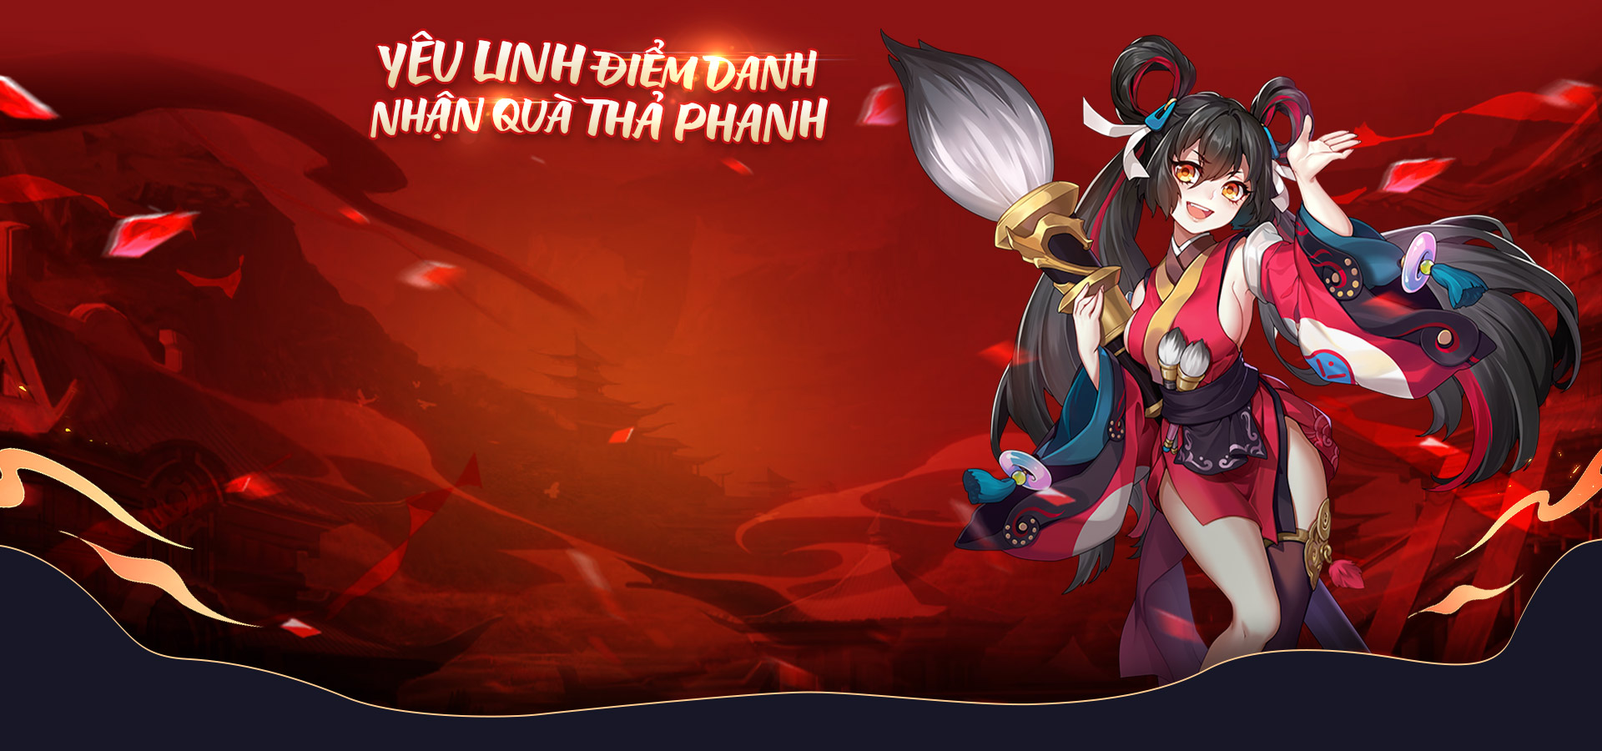
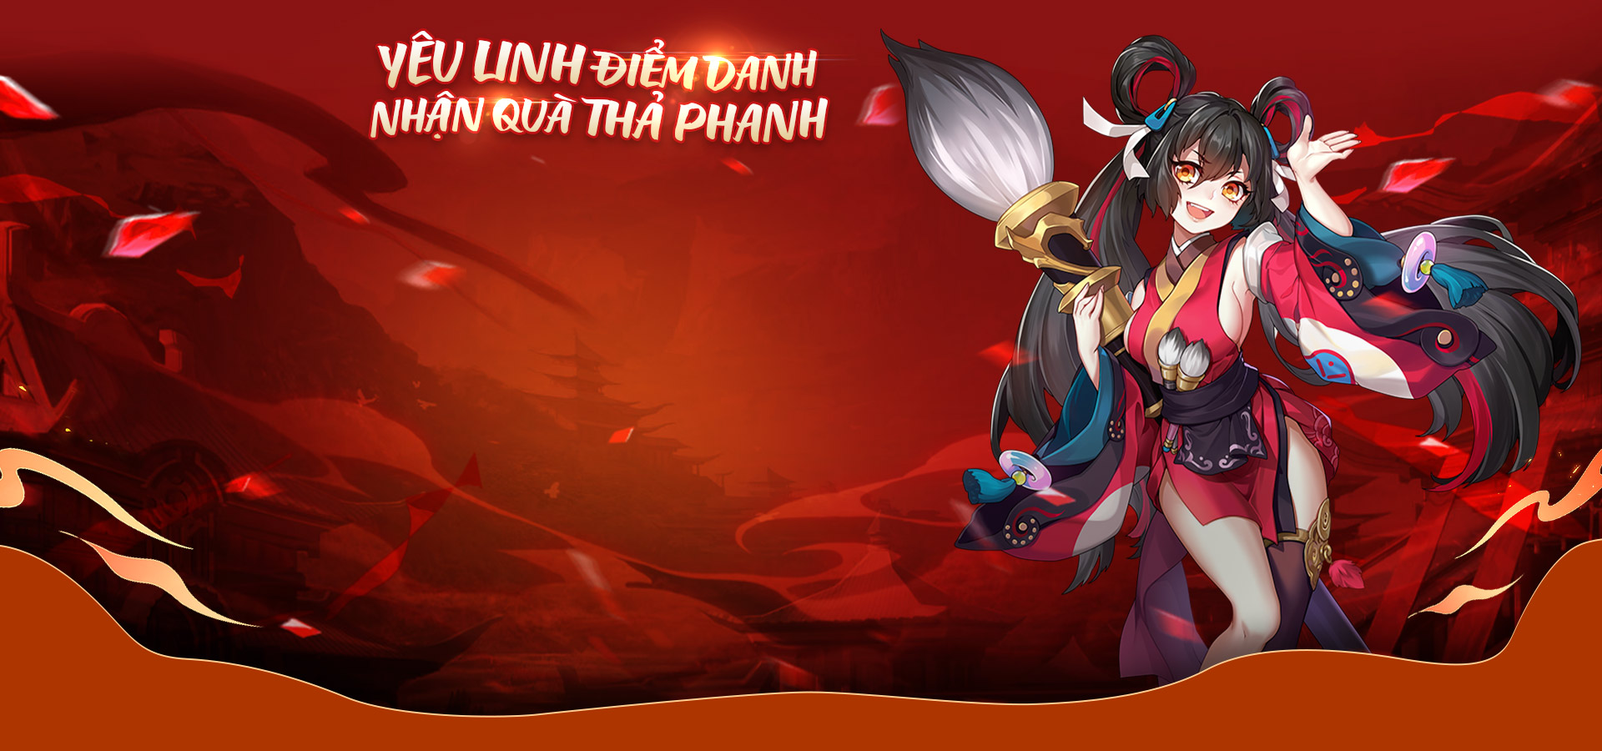
Update Bg block003

Changed region(s): [[0.0, 0.7156, 1.0, 1.0]]

diff --git a/20230410-DaiLe3004/css/wwstyle.min.css b/20230410-DaiLe3004/css/wwstyle.min.css
@@ -1,1 +1,1 @@
-body.fullpagebg{background:var(--w-bg-color) url("../images/bg-sm.jpg") no-repeat center top scroll;background-size:100vw auto}body:not(.fullpagebg) #section-01{background:url("../images/block001/bg-sm.jpg") no-repeat center 0em scroll;background-size:100vw auto}body:not(.fullpagebg) #section-02{background:url("../images/block002/bg-sm.jpg") no-repeat center 0em scroll;background-size:100vw auto}body:not(.fullpagebg) #section-03{background:url("../images/block003/bg-sm.jpg") no-repeat center 0em scroll;background-size:100vw auto}body:not(.fullpagebg) #section-04{background:url("../images/block004/bg-sm.jpg") no-repeat center 0em scroll;background-size:100vw auto}body:not(.fullpagebg) #section-05{background:url("../images/block005/bg-sm.jpg") no-repeat center 0em scroll;background-size:100vw auto}#section-vgp{background-color:#111}@media(min-width: 1024px){body.fullpagebg{background:var(--w-bg-color) url("../images/bg-lg.jpg") no-repeat center top scroll;background-size:100vw auto}body:not(.fullpagebg) #section-01{background-image:url(../images/block001/bg-lg.jpg)}body:not(.fullpagebg) #section-02{background-image:url(../images/block002/bg-lg.jpg)}body:not(.fullpagebg) #section-03{background-image:url(../images/block003/bg-lg.jpg)}body:not(.fullpagebg) #section-04{background-image:url(../images//block004/bg-lg.jpg)}body:not(.fullpagebg) #section-05{background-image:url(../images/block005/bg-lg.jpg)}.wcontainer{width:75%}.layout-section03{grid-template-areas:"wheel slogan" "wheel status" "wheel button"}}form input,form select{color:#414141}.header-sm{background:rgba(0,0,0,0) url("../images/bg-header.png") no-repeat center center;background-size:100% 100%}.block-henuoc{background:rgba(0,0,0,0) url("../images/block-henuoc.png") no-repeat center center;background-size:100% 100%}.block-status{padding:1em 2em;background-color:rgba(0,0,0,.2);border:1px solid var(--w-secondary);border-radius:.5em;display:flex;justify-content:center;align-items:center}.block-status span{color:var(--w-highlight)}.cum-button{border:1px solid var(--w-secondary);border-radius:.5em;overflow:hidden}.cum-button button{padding:.69em 0;background-color:rgba(255,255,255,.69);border-left:1px solid var(--w-secondary)}.cum-button button:first-child{border-left:0px solid var(--w-secondary)}.cum-button button:hover{color:var(--w-secondary);background-color:#fff}.cum-button.dark{border:1px solid var(--w-primary)}.cum-button.dark button{background-color:rgba(0,0,0,.5);border-left:1px solid var(--w-primary);color:#fff}.cum-button.dark button:hover{color:var(--w-highlight);background-color:var(--w-secondary)}#section-menu-nav a{margin:0 .75em;display:block;text-align:center;opacity:.8;transition:opacity .36s ease}#section-menu-nav a:hover{opacity:1}.page-nav a{opacity:.8}.page-nav a:hover{opacity:1}.wbadge{color:#fff;padding:.25em .5em;position:absolute;border-radius:.5em}#section-final{background:rgba(0,0,0,0) url("../images/block-final.jpg") no-repeat center center;background-size:cover}.block-img-store{background:rgba(0,0,0,0) url("../images/store-badge/img-store.png") no-repeat center center;background-size:100% 100%}.block-img-store a{overflow:hidden;display:block;text-indent:-9999px}.search-box{background-color:rgba(255,255,255,.9);border-radius:1em;border:1px solid var(--w-primary)}.block-hoatdong button,.block-hoatdong button>img{transition:all .36s ease}.block-hoatdong button:hover{filter:drop-shadow(0px 0px 0.5em rgba(125, 238, 255, 0.5))}.block-hoatdong button:hover>img{transform:scale(1.05)}.alert{color:red;margin:.5em auto}#page-num{position:fixed;top:50%;left:1em;transform:translateY(-50%)}#page-num ul li a{width:.75em;height:.75em;text-indent:-9999px;overflow:hidden;background-color:#fff;display:block;border-radius:100%;opacity:.5;transition:opacity .36s ease}#page-num a.active{opacity:1}.content-04{background-color:#fff;border:1px dotted var(--w-tertiary);border-radius:2em;padding:3em 2em}.content-04 .h-fit{font-size:1.6rem}.content-04 .h-fit h3{color:var(--w-tertiary);font-size:1.5em;text-transform:uppercase;text-align:center;margin:0em auto 1em auto}.content-04 .swiper-slide{height:calc((100% - 30px)/2) !important}.content-04 .item{background:rgba(0,0,0,0) url("../images/item/bg-item.png") no-repeat center center;background-size:100% 100%;display:grid;padding:1em;border-radius:1em;text-align:center;gap:1em;cursor:pointer}.content-04 .item .name{line-height:1.25;color:var(--w-primary);text-transform:uppercase;font-size:.8em}.content-04 .item>button{background-color:var(--w-primary);padding:.35em .75em;color:#fff;border-radius:.5em}.doiqua-pagination,.gal-pagination{opacity:1;display:flex;justify-content:center;align-items:center;gap:0em}.doiqua-pagination span,.gal-pagination span{display:flex;justify-content:center;align-items:center;width:1.5em;height:1.5em;opacity:1;color:#fff;background-color:var(--w-tertiary);opacity:.25;transition:all .36s ease}.doiqua-pagination span.swiper-pagination-bullet-active,.gal-pagination span.swiper-pagination-bullet-active{opacity:1}@media(min-width: 1024px){.block-003{background:rgba(0,0,0,0) url("../images/bg-block003.png") no-repeat center bottom;background-size:100% 100%}.content-04{background-color:rgba(0,0,0,0);border:none;border-radius:2em;padding:2em}.content-04 .h-fit{font-size:1em}.content-04 .item{gap:.5em}.doiqua-pagination,.gal-pagination{font-size:1em}}.disabled{filter:grayscale(0.9);pointer-events:none}.offcanvas{position:absolute;top:0;left:0;width:100%;height:100%;z-index:10;background-color:var(--w-backdrop-color);opacity:1;transition:opacity .36s ease}.offcanvas-content{background-color:var(--w-offcanvas);opacity:1;color:#fff;transition:all .36s ease;overflow:hidden;height:100vh;filter:drop-shadow(0em 0em 0.5em rgba(0, 0, 0, 0.5))}.offcanvas-content>.icon{padding:1em;background-color:var(--w-primary)}.offcanvas-content .link a{display:flex;justify-content:center;align-items:center;border-bottom:var(--w-offcanvas-border);font-size:1em;line-height:4}@media(min-width: 1024px){.offcanvas-content .link a{font-size:1em}}.offcanvas:not(.show){opacity:0;z-index:-1}.offcanvas:not(.show) .offcanvas-content{opacity:0;margin-left:-50%}.btn-login-vgp{background-color:var(--w-primary);border-radius:100em}.btn-login-vgp span.content{width:0;margin:0;transition:width .36s ease;overflow:hidden;white-space:nowrap}.btn-login-vgp:hover span.content{width:-moz-fit-content;width:fit-content;margin:0 .5em}.ztimeline{background:rgba(0,0,0,0) url("../images/block002/timeline-bar.png") no-repeat center center;background-size:100% 100%;position:relative}.ztimeline .timeline-bar{background:rgba(0,0,0,0) url("../images/block002/timeline-bar-active.png") no-repeat 0% center;background-size:auto 100%;height:100%}.ztimeline .timeline-button{position:absolute;top:0;left:0;width:100%;height:100%}.ztimeline .timeline-button>button{width:100%;height:100%;opacity:0}.timeline-wrap{width:100%;height:100%;position:absolute;top:0;left:0}.ztimeline .timeline-gifts{background:rgba(0,0,0,0) url("../images/block002/timeline-item-active.png") no-repeat 0% center;background-size:auto 100%;height:100%;position:absolute;z-index:1;top:0;left:0}.btn-close-modal{background:rgba(0,0,0,0) url("../images/btn-close-modal.png") no-repeat center center;background-size:100% 100%;position:absolute;top:0%;left:50%;transform:translateY(-50%) translateX(-50%);transition:all .36s ease;width:8em;aspect-ratio:184/50;border:none;border-radius:1em;transition:all .36s ease}.btn-close-modal:hover{filter:brightness(1.2)}.wmodal-dialog{background:rgba(0,0,0,0) url("../images/bg-popup.png") no-repeat center center;background-size:100% 100%;transform:scale(1);transition:transform .5s ease;width:80%;padding:0;color:#414141}.wmodal-dialog>.content{padding-bottom:3em}.wmodal-dialog .title{text-align:center;text-transform:uppercase;height:6em;line-height:6em}.wmodal-dialog .content-scroll{overflow:auto;max-height:42em;padding:0 3em 4em 3em}.btn-close-modal:hover{filter:brightness(1.5)}.wmodal{position:fixed;width:100%;height:100%;background-color:var(--w-backdrop-color);top:0;right:0;z-index:9999;display:flex;justify-content:center;align-items:center;transition:opacity .36s ease;overflow:hidden;color:#414141;font-size:1em}.wmodal-content{background-color:rgba(255,255,255,.95);border:solid 1px var(--w-primary);filter:drop-shadow(0 0 1em rgba(0, 0, 0, 0.15));border-radius:2em;transform:scale(1);transition:transform .5s ease;width:90%;padding:2em;padding-top:3em}.wmodal-content .title{text-align:center;padding-bottom:1em;text-transform:uppercase;margin-bottom:.5em;letter-spacing:.5em;border-bottom:1px var(--w-primary) dotted}.wmodal-content.youtube{padding:0em;background:rgba(0,0,0,0);border:none}.wmodal:not(.show){opacity:0;z-index:-1}.wmodal:not(.show) .wmodal-content,.wmodal:not(.show) .wmodal-dialog{transform:scale(0.8)}.wmodal>.wmodal-content>.wrap{background-color:var(--w-popup-color);border-radius:1em;overflow:hidden}.wmodal-dialog .title span,.wmodal-content .title span{font-size:1.5em;color:var(--w-primary)}.content-scroll{max-height:69vh;overflow:auto}@media(min-width: 1024px){.btn-close-modal{width:8em}.wmodal-content{max-width:30em;padding-bottom:2em}.wmodal-content.youtube{max-width:50em}.wmodal-dialog{max-width:32em;padding-bottom:2em}.wmodal-dialog .title{height:6em;line-height:6em}.wmodal-content .title span,.wmodal-dialog .title span{font-size:1.75em}.wmodal-dialog .content-scroll{font-size:1rem;height:33em;padding:0 3em 4em 3em}.wmodal-content .h-fit,.wmodal-dialog .content-scroll .h-fit{font-size:1rem}}.bgvideo{width:100%;position:absolute;top:0;left:0;z-index:1}.bgvideo video{width:100%}.animate__loop{animation-duration:2s;animation-timing-function:ease;animation-iteration-count:infinite}.animate__glow{animation-name:glow}@keyframes glow{0%{filter:brightness(1)}50%{filter:brightness(1.3)}100%{filter:brightness(1)}}.animate__bling{animation-name:bling}@keyframes bling{0%{filter:brightness(1);transform:scale(1)}50%{filter:brightness(1.3);transform:scale(1.05)}100%{filter:brightness(1);transform:scale(1)}}.animate__blingbling{animation-name:blingbling}@keyframes blingbling{0%{filter:brightness(1);transform:translateY(0)}50%{filter:brightness(1.3);transform:translateY(2%)}100%{filter:brightness(1);transform:translateY(0)}}.animate__laploe{animation-name:laploe}@keyframes laploe{0%{filter:brightness(1);opacity:1;transform:scale(1)}50%{filter:brightness(1.2);opacity:.5;transform:scale(0.95) rotate(3deg)}100%{filter:brightness(1);opacity:1;transform:scale(1)}}.animate__breath{animation-name:breath;transform-origin:center center}@keyframes breath{0%{filter:brightness(1);transform:scale(1)}50%{filter:brightness(1.2);transform:scale(1.01)}100%{filter:brightness(1);transform:scale(1)}}.animte__updown{animation-name:updown}@keyframes updown{0%{transform:translateY(0)}50%{transform:translateY(5%)}100%{transform:translateY(0)}}.e-btn-click{transition:all .36s ease}.e-btn-click:active{transform:scale(0.98)}.e-btn-hover-glow{transition:all .36s ease}.e-btn-hover-glow:hover,.w-image-button:hover{transform:scale(1.01);filter:brightness(1.1) drop-shadow(0 0 2em rgba(255, 255, 255, 0.15))}.tabs-button button:not(.active){filter:brightness(0.69) grayscale(0.1);transition:all .36s ease}.tabs-content .content:not(.active){display:none}#scroll-truyuc::-webkit-scrollbar{display:none}#scroll-truyuc{cursor:grab;-ms-overflow-style:none;scrollbar-width:none}.scroll{background:rgba(0,0,0,0) url("../images/scroll/scroll.png") no-repeat center center;background-size:100% 100%}.button-scroll button{font-size:1.69em;line-height:3;background-color:rgba(0,0,0,.8);border-radius:.25em;border:solid 1px var(--w-secondary)}.pic{width:49.33em;position:relative}.pic-01{background:rgba(0,0,0,0) url("../images/scroll/active/img-01.png") no-repeat center center;background-size:100% 100%}.pic-02{background:rgba(0,0,0,0) url("../images/scroll/active/img-02.png") no-repeat center center;background-size:100% 100%}.pic-03{background:rgba(0,0,0,0) url("../images/scroll/active/img-03.png") no-repeat center center;background-size:100% 100%}.btn-nhancode{position:absolute;top:80%;left:50%;transform:translate(-50%, -50%);width:18em;z-index:0}.mask{position:absolute;top:0;z-index:1;transition:all .25s ease}.mask.hide{opacity:0;display:none}.mask-01{width:100%;height:100%;-webkit-mask:url("../images/scroll/mask/01.png") no-repeat;mask:url("../images/scroll/mask/01.png") no-repeat;-webkit-mask-size:100% 100%;mask-size:100% 100%}.mask-02{width:100%;height:100%;-webkit-mask:url("../images/scroll/mask/02.png") no-repeat;mask:url("../images/scroll/mask/02.png") no-repeat;-webkit-mask-size:100% 100%;mask-size:100% 100%}.mask-03{width:100%;height:100%;-webkit-mask:url("../images/scroll/mask/03.png") no-repeat;mask:url("../images/scroll/mask/03.png") no-repeat;-webkit-mask-size:100% 100%;mask-size:100% 100%}.mask-04{width:100%;height:100%;-webkit-mask:url("../images/scroll/mask/04.png") no-repeat;mask:url("../images/scroll/mask/04.png") no-repeat;-webkit-mask-size:100% 100%;mask-size:100% 100%}.mask-05{width:100%;height:100%;-webkit-mask:url("../images/scroll/mask/05.png") no-repeat;mask:url("../images/scroll/mask/05.png") no-repeat;-webkit-mask-size:100% 100%;mask-size:100% 100%}.mask-06{width:100%;height:100%;-webkit-mask:url("../images/scroll/mask/09.png") no-repeat;mask:url("../images/scroll/mask/09.png") no-repeat;-webkit-mask-size:100% 100%;mask-size:100% 100%}.mask-07{width:100%;height:100%;-webkit-mask:url("../images/scroll/mask/08.png") no-repeat;mask:url("../images/scroll/mask/08.png") no-repeat;-webkit-mask-size:100% 100%;mask-size:100% 100%}.mask-08{width:100%;height:100%;-webkit-mask:url("../images/scroll/mask/07.png") no-repeat;mask:url("../images/scroll/mask/07.png") no-repeat;-webkit-mask-size:100% 100%;mask-size:100% 100%}.mask-09{width:100%;height:100%;-webkit-mask:url("../images/scroll/mask/06.png") no-repeat;mask:url("../images/scroll/mask/06.png") no-repeat;-webkit-mask-size:100% 100%;mask-size:100% 100%}.checkin>.w-image-button{background:rgba(0,0,0,0) url("../images/block003/active/gift-01.png") no-repeat center center;background-size:100% auto}.checkin .w-image-button:nth-child(1){background-image:url("../images/block003/active/gift-01.png")}.checkin .w-image-button:nth-child(2){background-image:url("../images/block003/active/gift-02.png")}.checkin .w-image-button:nth-child(3){background-image:url("../images/block003/active/gift-03.png")}.checkin .w-image-button:nth-child(4){background-image:url("../images/block003/active/gift-04.png")}.checkin .w-image-button:nth-child(5){background-image:url("../images/block003/active/gift-05.png")}.checkin .active>img{opacity:0}.block-float{position:fixed;transition:transform .36s ease,height .36s ease;z-index:11}.block-float .link a{display:flex;justify-content:center;align-items:center;text-transform:uppercase}.block-float:not(.minimize){background:rgba(0,0,0,0) url("../images/float/float-bg.png") no-repeat center center;background-size:100% 100%;top:50%;right:0;transform:translateY(-50%)}.block-float:not(.minimize) .block-mini{display:none}.block-float.minimize{padding:0;bottom:0;right:0;transform:translateY(0);aspect-ratio:auto}.block-float.minimize>*{display:none}.block-float.minimize .block-mini{display:block}.text-share{background:rgba(0,0,0,0) url("../images/text-share.png") no-repeat center center;background-size:100% 100%;aspect-ratio:261/62;text-align:center;line-height:1;display:flex;align-items:center;justify-content:center}.block-gal .swiper-container{width:100%;height:100%;margin-left:auto;margin-right:auto}.block-gal .swiper-slide{height:calc((100% - 30px)/2) !important;display:flex;justify-content:center;align-items:center}.block-gal .item{background:rgba(0,0,0,0) url("../images/gal/bg-item.png") no-repeat center center;background-size:100% 100%;padding:6.9%;position:relative;cursor:pointer;transition:all .36s ease}.block-gal .item>.info{position:absolute;top:0;left:0;width:100%;height:100%;background-color:rgba(0,0,0,.69);color:#fff;text-align:center;display:flex;flex-direction:column;justify-content:center;align-items:center;opacity:0;transition:opacity .25s ease-in}.block-gal .item>.info span{color:#ccc}.block-gal .item:hover{filter:brightness(1.1)}.block-gal .item:hover>.info{opacity:1}.block-gal .item .w-image-block{border:1px var(--w-secondary) solid;border-radius:1em}.block-gal .item button{color:#fff;background-color:var(--w-secondary);padding:.15em .75em;border-radius:.75em}.btn-gal-tangbanh button{height:2em;width:2em;background-color:var(--w-secondary);color:#fff}.btn-gal-tangbanh input{height:2em;width:3em;text-align:center;padding:0 1em}.block-top10{background:rgba(0,0,0,0) url("../images/gal/bg-top10.png") no-repeat center center;background-size:100% 100%;padding:16.5em 3em 0em 3em}.block-top10 .border{border:none;border-bottom:1px var(--w-secondary) dotted}.block-top10 td span{width:1.5em;height:1.5em;line-height:1.5em;background-color:#111;color:#fff;border-radius:.25em;display:block}.block-top10 tr:nth-child(1) td span,.block-top10 tr:nth-child(2) td span,.block-top10 tr:nth-child(3) td span{background-color:var(--w-secondary)}.btn-dapngay{top:50%;left:50%;transform:translate(-50%, -50%);cursor:pointer}.btn-dapngay .tag-luotdap{background-color:rgba(0,0,0,.69);padding:.5em;border-radius:1em;border:1px solid var(--w-primary);position:absolute;bottom:5%;left:50%;transform:translateX(-50%);z-index:1}.block-items{background-color:#ccc;border:#ccc solid 1px}.block-items .item{background-color:#fff;padding:1.75em 1em}.block-items .item button{padding:.5em .75em;background-color:var(--w-primary);color:#fff;border-radius:1em}.char-slide{position:relative}.char-slide>a{width:11em;margin:-1em auto 0 auto}@media(min-width: 1024px){.char-slide>a{width:20em;margin:0 auto;position:absolute;bottom:3%;left:50%;margin-left:-10em}}.char-pagination{--swiper-pagination-bullet-inactive-opacity: 0.5}.char-pagination span{text-indent:-9999px;overflow:hidden;background:rgba(0,0,0,0) no-repeat center center;background-size:100% 100%;width:4em;height:4em}.char-pagination span:nth-child(1){background-image:url("../images/character/icon-class-01.png")}.char-pagination span:nth-child(2){background-image:url("../images/character/icon-class-02.png")}.char-pagination span:nth-child(3){background-image:url("../images/character/icon-class-03.png")}.char-pagination span:nth-child(4){background-image:url("../images/character/icon-class-04.png")}.char-pagination span:nth-child(5){background-image:url("../images/character/icon-class-05.png")}.block-submit .swiper-slide:not(.swiper-slide-active){background-color:#fff}.block-submit .swiper-slide:not(.swiper-slide-active)>img{opacity:.3;transition:all .36s ease}.block-submit .swiper-button-next,.block-submit .swiper-button-prev{width:2em}.block-submit .swiper-button-next::after,.block-submit .swiper-button-prev::after{display:none}.block-submit .swiper-button-next{right:.5em}.block-submit .swiper-button-prev{left:.5em}@media(min-width: 1024px){.block-submit .swiper-button-next,.block-submit .swiper-button-prev{width:3em}.block-submit .swiper-button-next{right:5em}.block-submit .swiper-button-prev{left:5em}}.ranking-content{color:var(--w-primary);line-height:2.65;background-color:#fff;border-radius:1em;padding:1em 2em;overflow:auto}.ranking-content thead{border-bottom:#ccc 1px solid}.quatop{line-height:1.1}.quatop>li{display:grid;grid-template-columns:5em auto;gap:1em;overflow:hidden;border-top:1px solid rgba(66,152,146,.3);padding:1em 0}.quatop>li>span{font-size:.9em;display:flex;align-items:center}.quatop>li .w-image-block{display:flex;align-items:center}@media(min-width: 1024px){.ranking-content{background-color:rgba(0,0,0,0);height:auto;padding:2em 8em;line-height:2.5}.ranking-content>.content{display:grid;grid-template-columns:50% 50%;gap:1em}.ranking-content .quatop{width:95%;border:1px solid rgba(66,152,146,.3);padding:0em 1.5em;aspect-ratio:1/.9;display:grid;grid-template-rows:20% 20% 20% 20% 20%}.ranking-content .quatop li:nth-child(1){border:none}}.block-quabaovat{background:rgba(0,0,0,0) url("../images/block005/bg-quabaovat.png") no-repeat center center;background-size:100% 100%;aspect-ratio:350/600;padding:5em 1.5em 0 1.5em}.block-lichsunhan{background:rgba(0,0,0,0) url("../images/block005/bg-lichsunhan.png") no-repeat center center;background-size:100% 100%;padding:5em 1.5em 0 1.5em}.wwheel .w-image-block,.wwheel .w-image-button{position:absolute;top:50%;left:50%;transform:translate(-50%, -50%)}.wwheel{background:rgba(0,0,0,0) url("../images/block005/wheelbg.png") center center scroll;background-size:100% 100%;aspect-ratio:1/1;position:relative;cursor:pointer}.wwheel .num{position:absolute;background-color:#fff;padding:.25em .5em;border-radius:1em;font-weight:bold;transform:translateX(-50%);left:50%}.wheel{aspect-ratio:1/1;transform-origin:center center}.wheel>img{width:100%;height:auto;display:block}.block-gift{background-color:#ffebbc !important;padding-bottom:5em}.item{background:rgba(0,0,0,0) url(../images/block-gift/bg-item.png) no-repeat center center scroll;background-size:100% 100%;aspect-ratio:300/500;display:flex;flex-direction:column;justify-content:center;align-items:center;padding:1.5em;text-align:center;gap:.5em}.item h1{font-size:1.1em;line-height:1}.item h3{color:var(--w-primary)}.item button{width:90%;margin:0 auto}.wrapp{position:relative;transition:height ease-in .36s}.wrapp button.wrappseemoah{font-size:1.1em;position:absolute;bottom:0;left:50%;background-color:var(--w-primary);padding:.5em 1em;color:#fff;border-radius:1em;transform:translateX(-50%);display:none}.wrapp.active .content{-webkit-mask-image:linear-gradient(rgb(0, 0, 0) 69%, transparent);mask-image:linear-gradient(rgb(0, 0, 0) 69%, transparent)}.wrapp.active button.wrappseemoah{display:block}.splitter{background:rgba(0,0,0,0) url(../images/splitter.png) repeat-x;background-size:auto 100%;width:100vw;position:absolute;height:1em;z-index:3;transform:translateY(-50%)}.cum-btn{background:rgba(0,0,0,0) url(../images/block003/bg-cumbtn.png) no-repeat center top/100% auto}.info{color:#fff;background-color:rgba(107,111,193,.85);border-radius:1em}.btn-atk-small{width:16em;position:absolute;top:50%;left:50%;margin-top:-8em;margin-left:-8em;transform:scale(0.1);opacity:0;transition:all .36s ease;aspect-ratio:1/1;z-index:0;background:url("../images/block003/bg-btn-atk-small.png") no-repeat center center;background-size:100% 100%;filter:drop-shadow(0em 0em 4em rgba(0, 0, 0, 0.5))}.btn-atk-small.show{transform:scale(1);opacity:1;z-index:1}@media(min-width: 1024px){.block-boss{grid-template-areas:"cumbtn boss btnatk"}.block-boss .boss{grid-area:boss}.block-boss .btn-atk{grid-area:btnatk}.block-boss .cum-btn{grid-area:cumbtn}.btn-atk-small{width:20em;margin-top:-10em;margin-left:-10em}}.w-btn{padding:.5em 1em;border:1px var(--w-secondary) solid;border-radius:1em}/*# sourceMappingURL=wwstyle.min.css.map */
+body.fullpagebg{background:var(--w-bg-color) url("../images/bg-sm.jpg") no-repeat center top scroll;background-size:100vw auto}body:not(.fullpagebg) #section-01{background:url("../images/block001/bg-sm.jpg") no-repeat center 0em scroll;background-size:100vw auto}body:not(.fullpagebg) #section-02{background:url("../images/block002/bg-sm.jpg") no-repeat center 0em scroll;background-size:100vw auto}body:not(.fullpagebg) #section-03{background:url("../images/block003/bg-sm.jpg") no-repeat center 0em scroll;background-size:100vw auto}body:not(.fullpagebg) #section-04{background:url("../images/block004/bg-sm.jpg") no-repeat center 0em scroll;background-size:100vw auto}body:not(.fullpagebg) #section-05{background:url("../images/block005/bg-sm.jpg") no-repeat center 0em scroll;background-size:100vw auto}#section-vgp{background-color:#111}@media(min-width: 1024px){body.fullpagebg{background:var(--w-bg-color) url("../images/bg-lg.jpg") no-repeat center top scroll;background-size:100vw auto}body:not(.fullpagebg) #section-01{background-image:url(../images/block001/bg-lg.jpg)}body:not(.fullpagebg) #section-02{background-image:url(../images/block002/bg-lg.jpg)}body:not(.fullpagebg) #section-03{background-image:url(../images/block003/bg-lg.jpg)}body:not(.fullpagebg) #section-04{background-image:url(../images//block004/bg-lg.jpg)}body:not(.fullpagebg) #section-05{background-image:url(../images/block005/bg-lg.jpg)}.wcontainer{width:75%}.layout-section03{grid-template-areas:"wheel slogan" "wheel status" "wheel button"}}form input,form select{color:#414141}.header-sm{background:rgba(0,0,0,0) url("../images/bg-header.png") no-repeat center center;background-size:100% 100%}.block-henuoc{background:rgba(0,0,0,0) url("../images/block-henuoc.png") no-repeat center center;background-size:100% 100%}.block-status{padding:1em 2em;background-color:rgba(0,0,0,.2);border:1px solid var(--w-secondary);border-radius:.5em;display:flex;justify-content:center;align-items:center}.block-status span{color:var(--w-highlight)}.cum-button{border:1px solid var(--w-secondary);border-radius:.5em;overflow:hidden}.cum-button button{padding:.69em 0;background-color:rgba(255,255,255,.69);border-left:1px solid var(--w-secondary)}.cum-button button:first-child{border-left:0px solid var(--w-secondary)}.cum-button button:hover{color:var(--w-secondary);background-color:#fff}.cum-button.dark{border:1px solid var(--w-primary)}.cum-button.dark button{background-color:rgba(0,0,0,.5);border-left:1px solid var(--w-primary);color:#fff}.cum-button.dark button:hover{color:var(--w-highlight);background-color:var(--w-secondary)}#section-menu-nav a{margin:0 .75em;display:block;text-align:center;opacity:.8;transition:opacity .36s ease}#section-menu-nav a:hover{opacity:1}.page-nav a{opacity:.8}.page-nav a:hover{opacity:1}.wbadge{color:#fff;padding:.25em .5em;position:absolute;border-radius:.5em}#section-final{background:rgba(0,0,0,0) url("../images/block-final.jpg") no-repeat center center;background-size:cover}.block-img-store{background:rgba(0,0,0,0) url("../images/store-badge/img-store.png") no-repeat center center;background-size:100% 100%}.block-img-store a{overflow:hidden;display:block;text-indent:-9999px}.search-box{background-color:rgba(255,255,255,.9);border-radius:1em;border:1px solid var(--w-primary)}.block-hoatdong button,.block-hoatdong button>img{transition:all .36s ease}.block-hoatdong button:hover{filter:drop-shadow(0px 0px 0.5em rgba(125, 238, 255, 0.5))}.block-hoatdong button:hover>img{transform:scale(1.05)}.alert{color:red;margin:.5em auto}#page-num{position:fixed;top:50%;left:1em;transform:translateY(-50%)}#page-num ul li a{width:.75em;height:.75em;text-indent:-9999px;overflow:hidden;background-color:#fff;display:block;border-radius:100%;opacity:.5;transition:opacity .36s ease}#page-num a.active{opacity:1}.content-04{background-color:#fff;border:1px dotted var(--w-tertiary);border-radius:2em;padding:3em 2em}.content-04 .h-fit{font-size:1.6rem}.content-04 .h-fit h3{color:var(--w-tertiary);font-size:1.5em;text-transform:uppercase;text-align:center;margin:0em auto 1em auto}.content-04 .swiper-slide{height:calc((100% - 30px)/2) !important}.content-04 .item{background:rgba(0,0,0,0) url("../images/item/bg-item.png") no-repeat center center;background-size:100% 100%;display:grid;padding:1em;border-radius:1em;text-align:center;gap:1em;cursor:pointer}.content-04 .item .name{line-height:1.25;color:var(--w-primary);text-transform:uppercase;font-size:.8em}.content-04 .item>button{background-color:var(--w-primary);padding:.35em .75em;color:#fff;border-radius:.5em}.doiqua-pagination,.gal-pagination{opacity:1;display:flex;justify-content:center;align-items:center;gap:0em}.doiqua-pagination span,.gal-pagination span{display:flex;justify-content:center;align-items:center;width:1.5em;height:1.5em;opacity:1;color:#fff;background-color:var(--w-tertiary);opacity:.25;transition:all .36s ease}.doiqua-pagination span.swiper-pagination-bullet-active,.gal-pagination span.swiper-pagination-bullet-active{opacity:1}@media(min-width: 1024px){.block-003{background:rgba(0,0,0,0) url("../images/bg-block003.png") no-repeat center bottom;background-size:100% 100%}.content-04{background-color:rgba(0,0,0,0);border:none;border-radius:2em;padding:2em}.content-04 .h-fit{font-size:1em}.content-04 .item{gap:.5em}.doiqua-pagination,.gal-pagination{font-size:1em}}.disabled{filter:grayscale(0.9);pointer-events:none}.offcanvas{position:absolute;top:0;left:0;width:100%;height:100%;z-index:10;background-color:var(--w-backdrop-color);opacity:1;transition:opacity .36s ease}.offcanvas-content{background-color:var(--w-offcanvas);opacity:1;color:#fff;transition:all .36s ease;overflow:hidden;height:100vh;filter:drop-shadow(0em 0em 0.5em rgba(0, 0, 0, 0.5))}.offcanvas-content>.icon{padding:1em;background-color:var(--w-primary)}.offcanvas-content .link a{display:flex;justify-content:center;align-items:center;border-bottom:var(--w-offcanvas-border);font-size:1em;line-height:4}@media(min-width: 1024px){.offcanvas-content .link a{font-size:1em}}.offcanvas:not(.show){opacity:0;z-index:-1}.offcanvas:not(.show) .offcanvas-content{opacity:0;margin-left:-50%}.btn-login-vgp{background-color:var(--w-primary);border-radius:100em}.btn-login-vgp span.content{width:0;margin:0;transition:width .36s ease;overflow:hidden;white-space:nowrap}.btn-login-vgp:hover span.content{width:-moz-fit-content;width:fit-content;margin:0 .5em}.ztimeline{background:rgba(0,0,0,0) url("../images/block002/timeline-bar.png") no-repeat center center;background-size:100% 100%;position:relative}.ztimeline .timeline-bar{background:rgba(0,0,0,0) url("../images/block002/timeline-bar-active.png") no-repeat 0% center;background-size:auto 100%;height:100%}.ztimeline .timeline-button{position:absolute;top:0;left:0;width:100%;height:100%}.ztimeline .timeline-button>button{width:100%;height:100%;opacity:0}.timeline-wrap{width:100%;height:100%;position:absolute;top:0;left:0}.ztimeline .timeline-gifts{background:rgba(0,0,0,0) url("../images/block002/timeline-item-active.png") no-repeat 0% center;background-size:auto 100%;height:100%;position:absolute;z-index:1;top:0;left:0}.btn-close-modal{background:rgba(0,0,0,0) url("../images/btn-close-modal.png") no-repeat center center;background-size:100% 100%;position:absolute;top:0%;left:50%;transform:translateY(-50%) translateX(-50%);transition:all .36s ease;width:8em;aspect-ratio:184/50;border:none;border-radius:1em;transition:all .36s ease}.btn-close-modal:hover{filter:brightness(1.2)}.wmodal-dialog{background:rgba(0,0,0,0) url("../images/bg-popup.png") no-repeat center center;background-size:100% 100%;transform:scale(1);transition:transform .5s ease;width:80%;padding:0;color:#414141}.wmodal-dialog>.content{padding-bottom:3em}.wmodal-dialog .title{text-align:center;text-transform:uppercase;height:6em;line-height:6em}.wmodal-dialog .content-scroll{overflow:auto;max-height:42em;padding:0 3em 4em 3em}.btn-close-modal:hover{filter:brightness(1.5)}.wmodal{position:fixed;width:100%;height:100%;background-color:var(--w-backdrop-color);top:0;right:0;z-index:9999;display:flex;justify-content:center;align-items:center;transition:opacity .36s ease;overflow:hidden;color:#414141;font-size:1em}.wmodal-content{background-color:rgba(255,255,255,.95);border:solid 1px var(--w-primary);filter:drop-shadow(0 0 1em rgba(0, 0, 0, 0.15));border-radius:2em;transform:scale(1);transition:transform .5s ease;width:90%;padding:2em;padding-top:3em}.wmodal-content .title{text-align:center;padding-bottom:1em;text-transform:uppercase;margin-bottom:.5em;letter-spacing:.5em;border-bottom:1px var(--w-primary) dotted}.wmodal-content.youtube{padding:0em;background:rgba(0,0,0,0);border:none}.wmodal:not(.show){opacity:0;z-index:-1}.wmodal:not(.show) .wmodal-content,.wmodal:not(.show) .wmodal-dialog{transform:scale(0.8)}.wmodal>.wmodal-content>.wrap{background-color:var(--w-popup-color);border-radius:1em;overflow:hidden}.wmodal-dialog .title span,.wmodal-content .title span{font-size:1.5em;color:var(--w-primary)}.content-scroll{max-height:69vh;overflow:auto}@media(min-width: 1024px){.btn-close-modal{width:8em}.wmodal-content{max-width:30em;padding-bottom:2em}.wmodal-content.youtube{max-width:50em}.wmodal-dialog{max-width:32em;padding-bottom:2em}.wmodal-dialog .title{height:6em;line-height:6em}.wmodal-content .title span,.wmodal-dialog .title span{font-size:1.75em}.wmodal-dialog .content-scroll{font-size:1rem;height:33em;padding:0 3em 4em 3em}.wmodal-content .h-fit,.wmodal-dialog .content-scroll .h-fit{font-size:1rem}}.bgvideo{width:100%;position:absolute;top:0;left:0;z-index:1}.bgvideo video{width:100%}.animate__loop{animation-duration:2s;animation-timing-function:ease;animation-iteration-count:infinite}.animate__glow{animation-name:glow}@keyframes glow{0%{filter:brightness(1)}50%{filter:brightness(1.3)}100%{filter:brightness(1)}}.animate__bling{animation-name:bling}@keyframes bling{0%{filter:brightness(1);transform:scale(1)}50%{filter:brightness(1.3);transform:scale(1.05)}100%{filter:brightness(1);transform:scale(1)}}.animate__blingbling{animation-name:blingbling}@keyframes blingbling{0%{filter:brightness(1);transform:translateY(0)}50%{filter:brightness(1.3);transform:translateY(2%)}100%{filter:brightness(1);transform:translateY(0)}}.animate__laploe{animation-name:laploe}@keyframes laploe{0%{filter:brightness(1);opacity:1;transform:scale(1)}50%{filter:brightness(1.2);opacity:.5;transform:scale(0.95) rotate(3deg)}100%{filter:brightness(1);opacity:1;transform:scale(1)}}.animate__breath{animation-name:breath;transform-origin:center center}@keyframes breath{0%{filter:brightness(1);transform:scale(1)}50%{filter:brightness(1.2);transform:scale(1.01)}100%{filter:brightness(1);transform:scale(1)}}.animte__updown{animation-name:updown}@keyframes updown{0%{transform:translateY(0)}50%{transform:translateY(5%)}100%{transform:translateY(0)}}.e-btn-click{transition:all .36s ease}.e-btn-click:active{transform:scale(0.98)}.e-btn-hover-glow{transition:all .36s ease}.e-btn-hover-glow:hover,.w-image-button:hover{transform:scale(1.01);filter:brightness(1.1) drop-shadow(0 0 2em rgba(255, 255, 255, 0.15))}.tabs-button button:not(.active){filter:brightness(0.69) grayscale(0.1);transition:all .36s ease}.tabs-content .content:not(.active){display:none}#scroll-truyuc::-webkit-scrollbar{display:none}#scroll-truyuc{cursor:grab;-ms-overflow-style:none;scrollbar-width:none}.scroll{background:rgba(0,0,0,0) url("../images/scroll/scroll.png") no-repeat center center;background-size:100% 100%}.button-scroll button{font-size:1.69em;line-height:3;background-color:rgba(0,0,0,.8);border-radius:.25em;border:solid 1px var(--w-secondary)}.pic{width:49.33em;position:relative}.pic-01{background:rgba(0,0,0,0) url("../images/scroll/active/img-01.png") no-repeat center center;background-size:100% 100%}.pic-02{background:rgba(0,0,0,0) url("../images/scroll/active/img-02.png") no-repeat center center;background-size:100% 100%}.pic-03{background:rgba(0,0,0,0) url("../images/scroll/active/img-03.png") no-repeat center center;background-size:100% 100%}.btn-nhancode{position:absolute;top:80%;left:50%;transform:translate(-50%, -50%);width:18em;z-index:0}.mask{position:absolute;top:0;z-index:1;transition:all .25s ease}.mask.hide{opacity:0;display:none}.mask-01{width:100%;height:100%;-webkit-mask:url("../images/scroll/mask/01.png") no-repeat;mask:url("../images/scroll/mask/01.png") no-repeat;-webkit-mask-size:100% 100%;mask-size:100% 100%}.mask-02{width:100%;height:100%;-webkit-mask:url("../images/scroll/mask/02.png") no-repeat;mask:url("../images/scroll/mask/02.png") no-repeat;-webkit-mask-size:100% 100%;mask-size:100% 100%}.mask-03{width:100%;height:100%;-webkit-mask:url("../images/scroll/mask/03.png") no-repeat;mask:url("../images/scroll/mask/03.png") no-repeat;-webkit-mask-size:100% 100%;mask-size:100% 100%}.mask-04{width:100%;height:100%;-webkit-mask:url("../images/scroll/mask/04.png") no-repeat;mask:url("../images/scroll/mask/04.png") no-repeat;-webkit-mask-size:100% 100%;mask-size:100% 100%}.mask-05{width:100%;height:100%;-webkit-mask:url("../images/scroll/mask/05.png") no-repeat;mask:url("../images/scroll/mask/05.png") no-repeat;-webkit-mask-size:100% 100%;mask-size:100% 100%}.mask-06{width:100%;height:100%;-webkit-mask:url("../images/scroll/mask/09.png") no-repeat;mask:url("../images/scroll/mask/09.png") no-repeat;-webkit-mask-size:100% 100%;mask-size:100% 100%}.mask-07{width:100%;height:100%;-webkit-mask:url("../images/scroll/mask/08.png") no-repeat;mask:url("../images/scroll/mask/08.png") no-repeat;-webkit-mask-size:100% 100%;mask-size:100% 100%}.mask-08{width:100%;height:100%;-webkit-mask:url("../images/scroll/mask/07.png") no-repeat;mask:url("../images/scroll/mask/07.png") no-repeat;-webkit-mask-size:100% 100%;mask-size:100% 100%}.mask-09{width:100%;height:100%;-webkit-mask:url("../images/scroll/mask/06.png") no-repeat;mask:url("../images/scroll/mask/06.png") no-repeat;-webkit-mask-size:100% 100%;mask-size:100% 100%}.checkin>.w-image-button{background:rgba(0,0,0,0) url("../images/block003/active/gift-01.png") no-repeat center center;background-size:100% auto}.checkin .w-image-button:nth-child(1){background-image:url("../images/block003/active/gift-01.png")}.checkin .w-image-button:nth-child(2){background-image:url("../images/block003/active/gift-02.png")}.checkin .w-image-button:nth-child(3){background-image:url("../images/block003/active/gift-03.png")}.checkin .w-image-button:nth-child(4){background-image:url("../images/block003/active/gift-04.png")}.checkin .w-image-button:nth-child(5){background-image:url("../images/block003/active/gift-05.png")}.checkin .active>img{opacity:0}.block-float{position:fixed;transition:transform .36s ease,height .36s ease;z-index:11}.block-float .link a{display:flex;justify-content:center;align-items:center;text-transform:uppercase}.block-float:not(.minimize){background:rgba(0,0,0,0) url("../images/float/float-bg.png") no-repeat center center;background-size:100% 100%;top:50%;right:0;transform:translateY(-50%)}.block-float:not(.minimize) .block-mini{display:none}.block-float.minimize{padding:0;bottom:0;right:0;transform:translateY(0);aspect-ratio:auto}.block-float.minimize>*{display:none}.block-float.minimize .block-mini{display:block}.text-share{background:rgba(0,0,0,0) url("../images/text-share.png") no-repeat center center;background-size:100% 100%;aspect-ratio:261/62;text-align:center;line-height:1;display:flex;align-items:center;justify-content:center}.block-gal .swiper-container{width:100%;height:100%;margin-left:auto;margin-right:auto}.block-gal .swiper-slide{height:calc((100% - 30px)/2) !important;display:flex;justify-content:center;align-items:center}.block-gal .item{background:rgba(0,0,0,0) url("../images/gal/bg-item.png") no-repeat center center;background-size:100% 100%;padding:6.9%;position:relative;cursor:pointer;transition:all .36s ease}.block-gal .item>.info{position:absolute;top:0;left:0;width:100%;height:100%;background-color:rgba(0,0,0,.69);color:#fff;text-align:center;display:flex;flex-direction:column;justify-content:center;align-items:center;opacity:0;transition:opacity .25s ease-in}.block-gal .item>.info span{color:#ccc}.block-gal .item:hover{filter:brightness(1.1)}.block-gal .item:hover>.info{opacity:1}.block-gal .item .w-image-block{border:1px var(--w-secondary) solid;border-radius:1em}.block-gal .item button{color:#fff;background-color:var(--w-secondary);padding:.15em .75em;border-radius:.75em}.btn-gal-tangbanh button{height:2em;width:2em;background-color:var(--w-secondary);color:#fff}.btn-gal-tangbanh input{height:2em;width:3em;text-align:center;padding:0 1em}.block-top10{background:rgba(0,0,0,0) url("../images/gal/bg-top10.png") no-repeat center center;background-size:100% 100%;padding:16.5em 3em 0em 3em}.block-top10 .border{border:none;border-bottom:1px var(--w-secondary) dotted}.block-top10 td span{width:1.5em;height:1.5em;line-height:1.5em;background-color:#111;color:#fff;border-radius:.25em;display:block}.block-top10 tr:nth-child(1) td span,.block-top10 tr:nth-child(2) td span,.block-top10 tr:nth-child(3) td span{background-color:var(--w-secondary)}.btn-dapngay{top:50%;left:50%;transform:translate(-50%, -50%);cursor:pointer}.btn-dapngay .tag-luotdap{background-color:rgba(0,0,0,.69);padding:.5em;border-radius:1em;border:1px solid var(--w-primary);position:absolute;bottom:5%;left:50%;transform:translateX(-50%);z-index:1}.block-items{background-color:#ccc;border:#ccc solid 1px}.block-items .item{background-color:#fff;padding:1.75em 1em}.block-items .item button{padding:.5em .75em;background-color:var(--w-primary);color:#fff;border-radius:1em}.char-slide{position:relative}.char-slide>a{width:11em;margin:-1em auto 0 auto}@media(min-width: 1024px){.char-slide>a{width:20em;margin:0 auto;position:absolute;bottom:3%;left:50%;margin-left:-10em}}.char-pagination{--swiper-pagination-bullet-inactive-opacity: 0.5}.char-pagination span{text-indent:-9999px;overflow:hidden;background:rgba(0,0,0,0) no-repeat center center;background-size:100% 100%;width:4em;height:4em}.char-pagination span:nth-child(1){background-image:url("../images/character/icon-class-01.png")}.char-pagination span:nth-child(2){background-image:url("../images/character/icon-class-02.png")}.char-pagination span:nth-child(3){background-image:url("../images/character/icon-class-03.png")}.char-pagination span:nth-child(4){background-image:url("../images/character/icon-class-04.png")}.char-pagination span:nth-child(5){background-image:url("../images/character/icon-class-05.png")}.block-submit .swiper-slide:not(.swiper-slide-active){background-color:#fff}.block-submit .swiper-slide:not(.swiper-slide-active)>img{opacity:.3;transition:all .36s ease}.block-submit .swiper-button-next,.block-submit .swiper-button-prev{width:2em}.block-submit .swiper-button-next::after,.block-submit .swiper-button-prev::after{display:none}.block-submit .swiper-button-next{right:.5em}.block-submit .swiper-button-prev{left:.5em}@media(min-width: 1024px){.block-submit .swiper-button-next,.block-submit .swiper-button-prev{width:3em}.block-submit .swiper-button-next{right:5em}.block-submit .swiper-button-prev{left:5em}}.ranking-content{color:var(--w-primary);line-height:2.65;background-color:#fff;border-radius:1em;padding:1em 2em;overflow:auto}.ranking-content thead{border-bottom:#ccc 1px solid}.quatop{line-height:1.1}.quatop>li{display:grid;grid-template-columns:5em auto;gap:1em;overflow:hidden;border-top:1px solid rgba(66,152,146,.3);padding:1em 0}.quatop>li>span{font-size:.9em;display:flex;align-items:center}.quatop>li .w-image-block{display:flex;align-items:center}@media(min-width: 1024px){.ranking-content{background-color:rgba(0,0,0,0);height:auto;padding:2em 8em;line-height:2.5}.ranking-content>.content{display:grid;grid-template-columns:50% 50%;gap:1em}.ranking-content .quatop{width:95%;border:1px solid rgba(66,152,146,.3);padding:0em 1.5em;aspect-ratio:1/.9;display:grid;grid-template-rows:20% 20% 20% 20% 20%}.ranking-content .quatop li:nth-child(1){border:none}}.block-quabaovat{background:rgba(0,0,0,0) url("../images/block005/bg-quabaovat.png") no-repeat center center;background-size:100% 100%;aspect-ratio:350/600;padding:5em 1.5em 0 1.5em}.block-lichsunhan{background:rgba(0,0,0,0) url("../images/block005/bg-lichsunhan.png") no-repeat center center;background-size:100% 100%;padding:5em 1.5em 0 1.5em}.wwheel .w-image-block,.wwheel .w-image-button{position:absolute;top:50%;left:50%;transform:translate(-50%, -50%)}.wwheel{background:rgba(0,0,0,0) url("../images/block005/wheelbg.png") center center scroll;background-size:100% 100%;aspect-ratio:1/1;position:relative;cursor:pointer}.wwheel .num{position:absolute;background-color:#fff;padding:.25em .5em;border-radius:1em;font-weight:bold;transform:translateX(-50%);left:50%}.wheel{aspect-ratio:1/1;transform-origin:center center}.wheel>img{width:100%;height:auto;display:block}.block-gift{background-color:#ffebbc !important;padding-bottom:5em}.item{background:rgba(0,0,0,0) url(../images/block-gift/bg-item.png) no-repeat center center scroll;background-size:100% 100%;aspect-ratio:300/500;display:flex;flex-direction:column;justify-content:center;align-items:center;padding:1.5em;text-align:center;gap:.5em}.item h1{font-size:1.1em;line-height:1}.item h3{color:var(--w-primary)}.item button{width:90%;margin:0 auto}.wrapp{position:relative;transition:height ease-in .36s}.wrapp button.wrappseemoah{font-size:1.1em;position:absolute;bottom:0;left:50%;background-color:var(--w-primary);padding:.5em 1em;color:#fff;border-radius:1em;transform:translateX(-50%);display:none}.wrapp.active .content{-webkit-mask-image:linear-gradient(rgb(0, 0, 0) 69%, transparent);mask-image:linear-gradient(rgb(0, 0, 0) 69%, transparent)}.wrapp.active button.wrappseemoah{display:block}.splitter{background:rgba(0,0,0,0) url(../images/splitter.png) repeat-x;background-size:auto 100%;width:100vw;position:absolute;height:1em;z-index:3;transform:translateY(-50%)}.cum-btn{background:rgba(0,0,0,0) url(../images/block003/bg-cumbtn.png) no-repeat center top/100% auto}.info{color:#fff;background-color:rgba(197,107,47,.69);border-radius:1em}.btn-atk-small{width:16em;position:absolute;top:50%;left:50%;margin-top:-8em;margin-left:-8em;transform:scale(0.1);opacity:0;transition:all .36s ease;aspect-ratio:1/1;z-index:0;background:url("../images/block003/bg-btn-atk-small.png") no-repeat center center;background-size:100% 100%;filter:drop-shadow(0em 0em 4em rgba(0, 0, 0, 0.5))}.btn-atk-small.show{transform:scale(1);opacity:1;z-index:1}@media(min-width: 1024px){.block-boss{grid-template-areas:"cumbtn boss btnatk"}.block-boss .boss{grid-area:boss}.block-boss .btn-atk{grid-area:btnatk}.block-boss .cum-btn{grid-area:cumbtn}.btn-atk-small{width:20em;margin-top:-10em;margin-left:-10em}}.w-btn{padding:.5em 1em;border:1px var(--w-secondary) solid;border-radius:1em}/*# sourceMappingURL=wwstyle.min.css.map */

diff --git a/20230410-DaiLe3004/wstyle/_block-003.scss b/20230410-DaiLe3004/wstyle/_block-003.scss
@@ -4,7 +4,7 @@
 }
 .info {
   color: #fff;
-  background-color: rgba($color: #6b6fc1, $alpha: 0.85);
+  background-color: rgba($color: #c56b2f, $alpha: 0.69);
   border-radius: 1em;
   /* border: dashed var(--w-primary) 1px; */
 }
